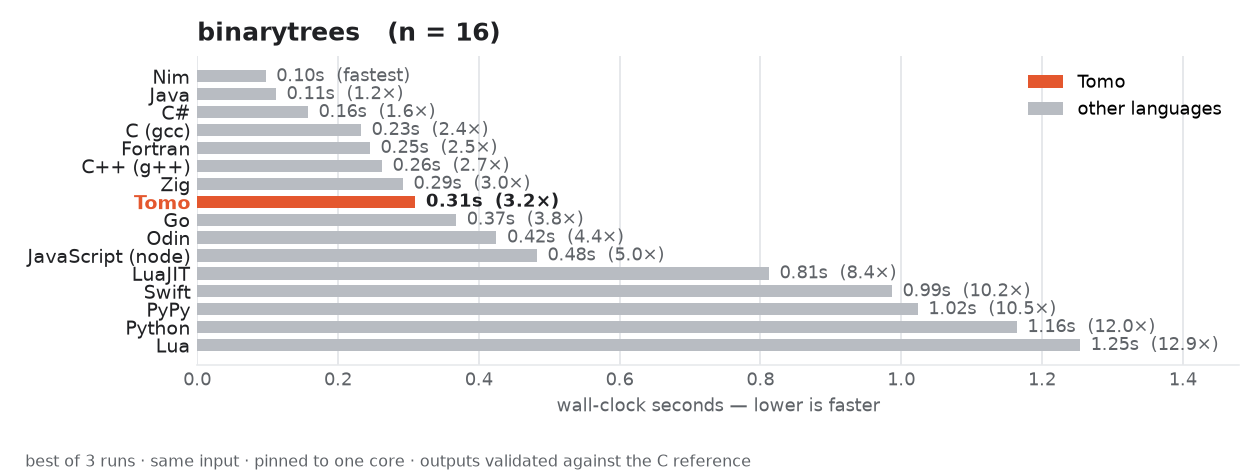
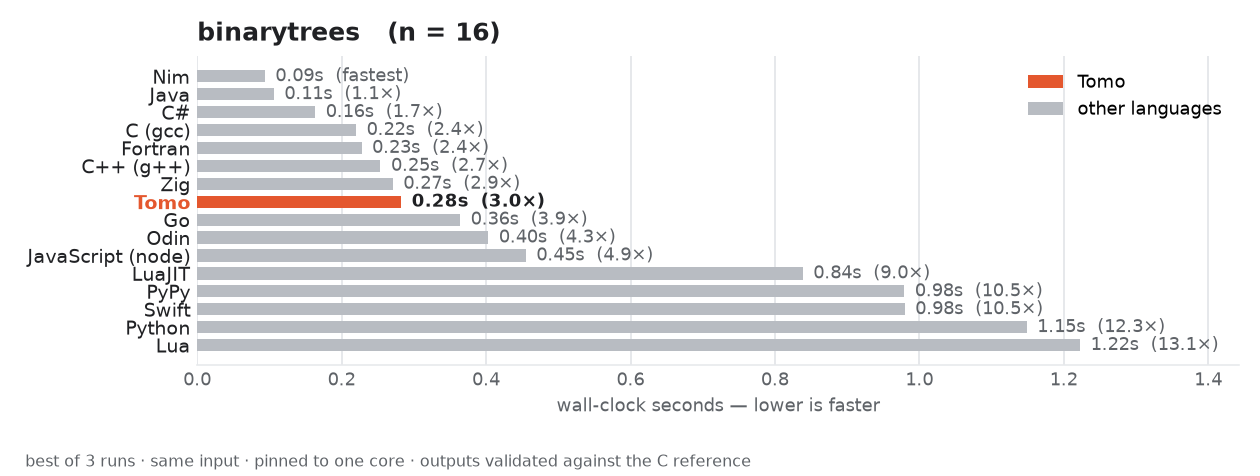
Regenerate benchmark graphs + README for all nine benchmarks
Clean, consistent snapshot from one full `bench.py run` across all nine
benchmarks (best of 3, pinned to one core, every output validated). Adds
the four new per-benchmark PNGs (pidigits, reverse-complement, mandelbrot,
spectral-norm) alongside the refreshed originals and the combined overview.

README: expanded the summary with the new benchmarks' placements, notes
the pidigits-driven GMP/GC leak fix, documents the binary-size comparison
in context, and brings the layout/usage/coverage sections up to date with
sizes.json, bench.py sizes, and plot.py --sizes.

diff --git a/benchmarks/README.md b/benchmarks/README.md
@@ -15,31 +15,75 @@ reference). Timings are machine-specific — `results.json` and the vector
 graphs are git-ignored; run the three commands below to reproduce everything
 locally and regenerate these PNGs.
 
-![Tomo vs. other languages across five benchmarks](results.png)
+![Tomo vs. other languages across nine benchmarks](results.png)
 
-With the field now up to ~15 languages, the useful summary is that **Tomo sits
-inside the compiled-language cluster and beats every scripting language on every
-benchmark**. On the tight compute loops it lands in the middle of that cluster:
-**fannkuch-redux** puts it at 0.18s, within 1.8× of the fastest and jostling
-with C, Java, and C++; **n-body** at 0.27s is ~1.9× the leaders (Zig/Rust), just
-ahead of Go and Java. On the hash-table-heavy **k-nucleotide** it takes 3rd at
-0.29s — behind only C and C++, and ahead of Go, LuaJIT, Java, Rust, and every
-scripting language. **binary-trees**
-(an allocation/GC stress test) has it at 0.31s, mid-pack and ahead of Go and
-every scripting language. **fasta** is Tomo's softest benchmark but no longer an
-outlier — at 0.37s it's ~1.6× C (in line with n-body), edging out Rust and Java
-and ahead of LuaJIT, Fortran, and every scripting language, with only the
-hand-tuned byte-level entries (Zig, C++, Nim, C, Go, Swift) clearly faster.
+With the field now up to ~17 languages across all nine of the CLBG's
+library-free benchmarks, the useful summary is that **Tomo sits inside the
+compiled-language cluster and beats every scripting language on every single
+benchmark, with no exceptions**. On the tight compute loops it lands in the
+middle of that cluster: **fannkuch-redux** puts it at 0.35s, within 2.2× of the
+fastest and jostling with Java, Fortran, and C; **n-body** at 0.56s is ~1.9×
+the leader (Rust), just ahead of Go and Java. On the hash-table-heavy
+**k-nucleotide** it takes 3rd at 0.28s — behind only C and C++, and ahead of
+Go, LuaJIT, Java, Rust, and every scripting language. **binary-trees** (an
+allocation/GC stress test) has it at 0.28s, mid-pack and ahead of Go, Odin,
+and every scripting language. **fasta** is Tomo's softest core benchmark but
+not an outlier — at 0.75s it's ~10× C (C's SIMD-friendly byte tables set an
+unusually high bar here), still ahead of Java, C#, Rust, and every scripting
+language.
 
-The top of each compute chart is now crowded with fast natives — Zig, Nim, and
-Fortran routinely lead — but no garbage-collected, memory-safe language in the
-set is dramatically ahead of Tomo, and the scripting languages trail it
-everywhere.
+Of the four newer benchmarks, **mandelbrot** is a standout: at 0.70s Tomo
+*beats* the (multithreaded, core-pinned) C and Go entries outright, trailing
+only Rust, C++, and Java. **reverse-complement** at 0.60s is mid-pack, ahead of
+C++, PyPy, and Lua. **spectral-norm** at 1.16s is ~1.9× C, ahead of Go, C#,
+Java, and every scripting language. **pidigits** — a pure GMP bignum stress
+test — is Tomo's weakest relative showing at 4.6× C, but still 4th of 9,
+comfortably ahead of Python, PyPy, Java, C#, and JavaScript; getting there also
+surfaced and fixed a real leak in the runtime's bignum/GC integration (see
+below).
+
+The top of each compute chart is crowded with fast natives — Zig, Nim,
+Fortran, and Rust routinely lead — but no garbage-collected, memory-safe
+language in the set is dramatically ahead of Tomo, and the scripting languages
+trail it everywhere, often by one or two orders of magnitude (Python is
+50–300× slower than the fastest entry on several benchmarks here).
+
+### A runtime fix this benchmark suite found
+
+Timing **pidigits** turned up a genuine bug: every `Int` bignum's GMP limb
+storage was allocated with GMP's default (plain `malloc`) allocator, so the
+garbage collector never reclaimed it — a bignum-heavy loop leaked
+continuously. Routing GMP's allocation hooks through the GC
+(`mp_set_memory_functions`, set up once in `tomo_init`) fixed it: peak RSS on
+pidigits (n=10000) dropped from **~11.3 GB to 12 MB**, and wall time from
+6.75s to 1.75s, since the GC was no longer thrashing over gigabytes of leaked
+limbs.
 
 Per-benchmark graphs: [n-body](results-nbody.png) ·
 [fannkuch-redux](results-fannkuchredux.png) · [fasta](results-fasta.png) ·
 [k-nucleotide](results-knucleotide.png) ·
-[binary-trees](results-binarytrees.png).
+[binary-trees](results-binarytrees.png) · [pidigits](results-pidigits.png) ·
+[reverse-complement](results-reversecomplement.png) ·
+[mandelbrot](results-mandelbrot.png) ·
+[spectral-norm](results-spectralnorm.png).
+
+### Binary size
+
+A companion comparison of **static binary sizes** — for the languages that can
+produce a standalone statically-linked executable — is generated by
+`bench.py sizes` and `plot.py --sizes`:
+
+![Static binary size across languages](sizes.png)
+
+Every binary here is statically linked and stripped, so the number is the whole
+self-contained footprint (code + language runtime), not a stub that leans on a
+system `libc`. Tomo's binary is **~640 KB and near-constant across every
+benchmark** — the runtime dominates and the program itself is noise — making it
+the smallest self-contained binary after Zig's minimal-runtime musl builds, and
+smaller than C, C++, Rust, Go, and Nim. (Interpreted and bytecode languages have
+no such binary; Swift, Odin, and Fortran can't statically link on the test box;
+and pidigits/spectral-norm's C/C++ drop out where static `libgmp`/`libgomp`
+aren't installed.)
 
 ## Layout
 
@@ -48,16 +92,21 @@ benchmarks/
   config.json      # languages (build/run recipes) + per-benchmark program map
   bench.py         # driver: fetch / run / list
   fetch.sh         # thin wrapper: ./fetch.sh  ==  bench.py fetch
-  plot.py          # results.json -> results.svg + results.png
+  plot.py          # results.json -> results.svg + results.png (or --sizes)
   tomo/            # TRACKED — the Tomo ports (the only source we own)
     nbody.tm
     fannkuchredux.tm
     fasta.tm
     knucleotide.tm
     binarytrees.tm
+    pidigits.tm
+    reversecomplement.tm
+    mandelbrot.tm
+    spectralnorm.tm
   fetched/         # git-ignored — reference implementations, downloaded
   .build/          # git-ignored — compiled binaries / build scratch
   results.json     # git-ignored — measured timings
+  sizes.json       # git-ignored — measured static binary sizes
 ```
 
 ## Usage
@@ -66,7 +115,9 @@ benchmarks/
 ./fetch.sh                 # download reference implementations for all benchmarks
 python3 bench.py list      # show benchmarks + which toolchains are installed
 python3 bench.py run       # build, run, validate, and time every language
+python3 bench.py sizes     # build every language statically, record binary sizes
 python3 plot.py            # render results.svg and results.png
+python3 plot.py --sizes    # render sizes.svg and sizes.png from sizes.json
 ```
 
 Environment overrides for quick iteration:
@@ -159,10 +210,36 @@ failing the run.
 
 ## Benchmarks
 
-Currently implemented: **n-body**, **fannkuch-redux**, **fasta**,
-**k-nucleotide**, **binary-trees**. The plan is to grow the library-free core
-set (spectral-norm, mandelbrot, reverse-complement) one at a time, each with a
-validated Tomo port.
+Implemented — all nine of the CLBG's library-free core: **n-body**,
+**fannkuch-redux**, **fasta**, **k-nucleotide**, **binary-trees**,
+**pidigits**, **reverse-complement**, **mandelbrot**, **spectral-norm**.
+(regex-redux is deliberately excluded: it benchmarks a regex library, not the
+language.)
+
+**pidigits** is a pure big-integer benchmark (a streaming spigot for the digits
+of π). It maps directly onto Tomo's default `Int`, which is a GMP-backed
+arbitrary-precision integer, so the port is a near-transliteration of the C
+reference. Peers use each language's standard bignum (GMP for C/C++ via `-lgmp`,
+Go's `math/big`, native `BigInt`/`BigInteger`, Python's native `int`). Rust is
+omitted — every CLBG Rust entry links the `rug`/`ramp` GMP-binding crates, none
+vendored here.
+
+**reverse-complement** slurps a FASTA file on stdin (same `stdin_fasta` harness
+as k-nucleotide) and reverse-complements each sequence. The C serves it under
+the short URL stem `revcomp`, so its config carries `site_name: "revcomp"`. Rust
+is omitted — every CLBG Rust entry depends on the `rayon` crate.
+
+**mandelbrot** renders the set as a P4 PBM bitmap. Its C/C++ references are
+built with an extra `-ffp-contract=off` (per-benchmark `cflags`): under
+`-march=native`, gcc otherwise contracts the complex-square update into fused
+multiply-adds, which flips a single boundary pixel (`c = -i`) and diverges from
+the byte-exact output that Python, Go, Rust, and the Tomo port all agree on.
+
+**spectral-norm** is a dense floating-point benchmark (the power method on
+AᵀA). Its C++ entry needs `-fopenmp` (`cflags`); Python uses the single-threaded
+`python3-6` because the default entry's multiprocessing pool thrashes badly when
+pinned to one core; Swift is omitted because current `swiftc` can't type-check
+the fetched `eval_A` expression in reasonable time.
 
 **k-nucleotide** reads a FASTA file on stdin: the driver generates that input
 with the C fasta program at the configured scale and pipes it to each
@@ -173,7 +250,7 @@ skipped on machines where klib isn't installed there. Its Java entry uses
 
 PyPy runs the same fetched sources as CPython (`source_from: "python"`), via
 `pypy3` — so it needs a Python **3** PyPy (the `pypy` 2.7 binary won't run the
-Python-3 entries). It covers all five.
+Python-3 entries). It covers every benchmark.
 
 LuaJIT runs the same fetched source as Lua. LuaJIT is Lua 5.1, and a few CLBG
 Lua entries call 5.2+ names (e.g. `table.unpack` in the fasta entry), so the
